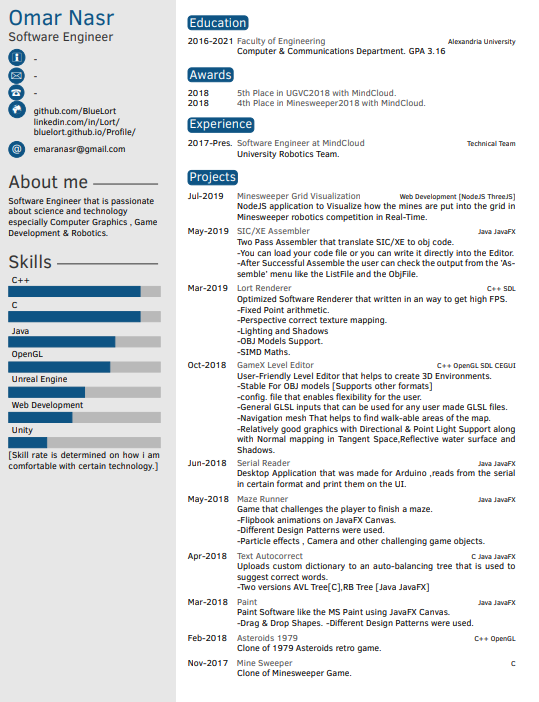
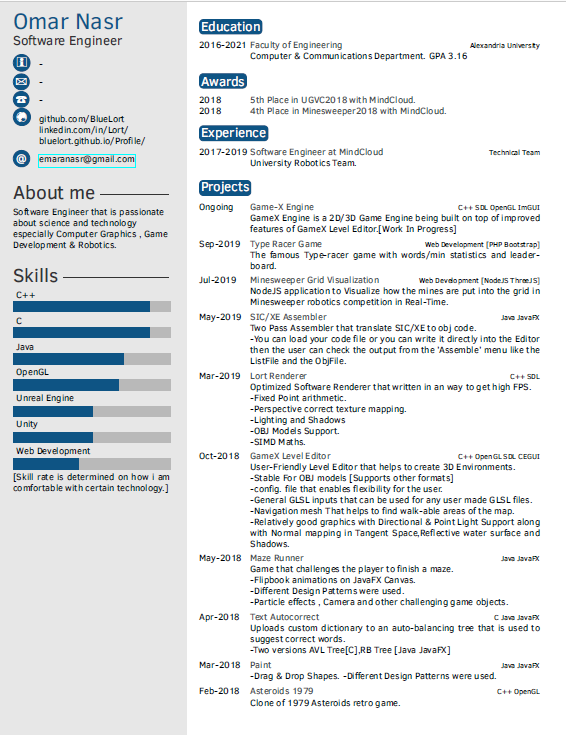
profile update

diff --git a/content/projects.html b/content/projects.html
@@ -1,6 +1,18 @@
 <h3 class="font">Click on the image to jump to the Git Repository!</h3>
 <div class="projects">
 
+    <a href="https://github.com/BlueLort/GameX-Engine" target="_blank">
+        <img src="imgs/previews/gx_engine/GX_LOGO.png">
+    </a>
+    <h1 class="font" style="color: rgb(108, 163, 235);font-size: 24px;">Game-X Engine</h1>
+    <h3 class="technologyUsed font">C++ &nbsp; OpenGL &nbsp; SDL2.0 &nbsp; ImGUI</h3>
+    <p class="paragraphs">
+        GameX Engine is a 2D/3D Game Engine built on top of improved features of GameX Level Editor.
+        [Work In Progress]
+    </p>
+</div>
+<div class="projects">
+
     <a href="https://github.com/BlueLort/GameX-LevelEditor" target="_blank">
         <img src="imgs/previews/game_x/gamex.PNG">
     </a>
@@ -17,6 +29,22 @@
         <li>-Relatively good graphics with Directional & Point Light Support along
             with Normal mapping in Tangent Space,Reflective water surface and
             Shadows.</li>
+    </ol>
+</div>
+<div class="projects">
+    <a href="https://github.com/BlueLort/Lort-Renderer" target="_blank">
+        <img src="imgs/previews/lort_renderer/lort_renderer.PNG">
+    </a>
+    <h1 class="font" style="color: rgb(108, 163, 235);font-size: 24px;">Lort Renderer</h1>
+    <h3 class="technologyUsed font">C++ &nbsp; SDL2.0</h3>
+    <p class="paragraphs">
+        Optimized Software Renderer that written in an way to get high FPS.
+    </p>
+    <ol class="paragraphs" type="1">
+        <li>Fixed Point arithmetic.</li>
+        <li>Perspective correct texture mapping.</li>
+        <li>OBJ Models Support.</li>
+        <li>Built SIMD Wrapper to use SIMD in Maths Operations.</li>
     </ol>
 </div>
 <div class="projects">
@@ -37,22 +65,20 @@
         <li>RealTime Grid & Vector Representation of the mines.</li>
     </ol>
 </div>
+
 <div class="projects">
-    <a href="https://github.com/BlueLort/Lort-Renderer" target="_blank">
-        <img src="imgs/previews/lort_renderer/lort_renderer.PNG">
+
+    <a href="https://github.com/amroakmal/SpeedTypeProject" target="_blank">
+        <img src="imgs/previews/typeracer/prev.PNG">
     </a>
-    <h1 class="font" style="color: rgb(108, 163, 235);font-size: 24px;">Lort Renderer</h1>
-    <h3 class="technologyUsed font">C++ &nbsp; SDL2.0</h3>
+    <h1 class="font" style="color: rgb(108, 163, 235);font-size: 24px;">Type-Racer Game</h1>
+    <h3 class="technologyUsed font">Web Development [PHP]</h3>
     <p class="paragraphs">
-        Optimized Software Renderer that written in an way to get high FPS.
+        The famous Type-racer game with words/min statistics and leaderboard.
     </p>
-    <ol class="paragraphs" type="1">
-        <li>Fixed Point arithmetic.</li>
-        <li>Perspective correct texture mapping.</li>
-        <li>OBJ Models Support.</li>
-        <li>Built SIMD Wrapper to use SIMD in Maths Operations.</li>
-    </ol>
 </div>
+
+
 <div class="projects">
     <a href="https://github.com/BlueLort/SIC-XE-ASM" target="_blank">
         <img src="imgs/previews/sicasm/sicasm.PNG">
